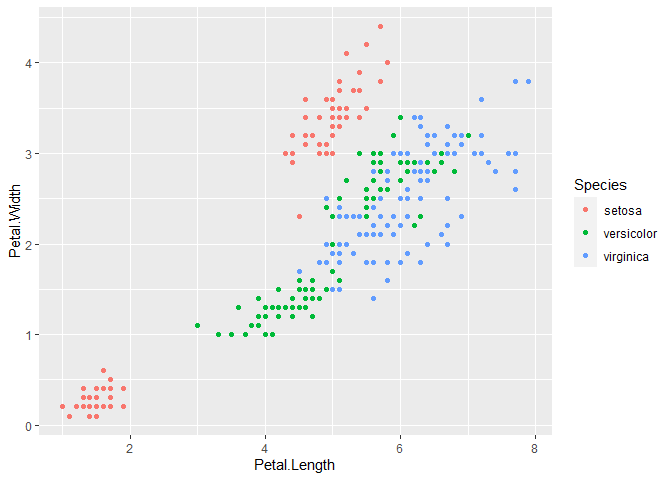
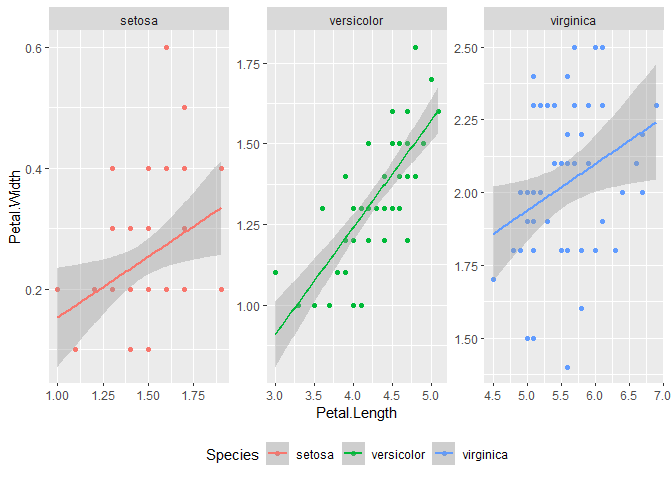
Tried some facets with trend lines.

diff --git a/iris-dataset-analysis.md b/iris-dataset-analysis.md
@@ -3,10 +3,49 @@ iris-dataset-analysis
 Adrian M
 2023-10-14
 
+# Introduction
+
+Edgar Anderson’s Iris Data
+
+This famous (Fisher’s or Anderson’s) iris data set gives the
+measurements in centimeters of the variables sepal length and width and
+petal length and width, respectively, for 50 flowers from each of 3
+species of iris. The species are Iris setosa, versicolor, and virginica.
+
+Setting up the environment
+
+?iris
+
 ``` r
 # install.packages("tidyverse")
 # install.packages("ggplot2")
-# library(tidyverse)
+library(tidyverse)
+```
+
+    ## Warning: package 'tidyverse' was built under R version 4.3.1
+
+    ## Warning: package 'tidyr' was built under R version 4.3.1
+
+    ## Warning: package 'purrr' was built under R version 4.3.1
+
+    ## Warning: package 'dplyr' was built under R version 4.3.1
+
+    ## Warning: package 'forcats' was built under R version 4.3.1
+
+    ## Warning: package 'lubridate' was built under R version 4.3.1
+
+    ## ── Attaching core tidyverse packages ──────────────────────── tidyverse 2.0.0 ──
+    ## ✔ dplyr     1.1.3     ✔ readr     2.1.4
+    ## ✔ forcats   1.0.0     ✔ stringr   1.5.0
+    ## ✔ ggplot2   3.4.4     ✔ tibble    3.2.1
+    ## ✔ lubridate 1.9.3     ✔ tidyr     1.3.0
+    ## ✔ purrr     1.0.2     
+    ## ── Conflicts ────────────────────────────────────────── tidyverse_conflicts() ──
+    ## ✖ dplyr::filter() masks stats::filter()
+    ## ✖ dplyr::lag()    masks stats::lag()
+    ## ℹ Use the conflicted package (<http://conflicted.r-lib.org/>) to force all conflicts to become errors
+
+``` r
 library(ggplot2)
 ```
 
@@ -30,11 +69,11 @@ head(df)
     ## 5          5.0         3.6          1.4         0.2  setosa
     ## 6          5.4         3.9          1.7         0.4  setosa
 
-Trying univariate analysis and visualize this using qplot
+Trying some univariate analysis and visualize this using `qplot`
 
 ?qplot
 
-Using qplot to show a plot. Check the number of records per Species
+Using `qplot` to show a plot. Check the number of records per Species
 
 ``` r
 qplot(Species, 
@@ -49,10 +88,11 @@ qplot(Species,
 
 ![](iris-dataset-analysis_files/figure-gfm/unnamed-chunk-4-1.png)<!-- -->
 
-qplot automatically decides which plot to use based on supplied
-variables. 50 records per species.
+`qplot` automatically decides which plot to use based on supplied
+variables. 50 records per species as the data set introduction
+described.
 
-Trying qplot if it will show a scatterplot
+Trying `qplot` to show a scatterplot
 
 ``` r
 qplot(Petal.Length, 
@@ -62,7 +102,7 @@ qplot(Petal.Length,
 
 ![](iris-dataset-analysis_files/figure-gfm/unnamed-chunk-5-1.png)<!-- -->
 
-Add some colors by Species
+Adding some colors by Species
 
 ``` r
 qplot(Petal.Length, 
@@ -73,8 +113,9 @@ qplot(Petal.Length,
 
 ![](iris-dataset-analysis_files/figure-gfm/unnamed-chunk-6-1.png)<!-- -->
 
-Looks good but documentation says qplot is deprecated (no longer useful
-or better options exist) So, going to try and explore ggplot instead
+Looks good but documentation says `qplot` is deprecated (no longer
+useful or better options exist) In this case, I’m going to try and
+explore ggplot instead
 
 ?ggplot
 
@@ -86,9 +127,9 @@ ggplot(data = df,
 ```
 
 ![](iris-dataset-analysis_files/figure-gfm/unnamed-chunk-7-1.png)<!-- -->
-
-It’s blank. Of course since the `aes()` or aesthetic is only present
-here. I need to specify which type of plot to use (unlike qplot?)
+It’s blank. Of course since the only the `aes()` or the aesthetic is
+present here. I need to add more layers and specify which type of plot
+to use.
 
 ``` r
 ggplot(data = df, 
@@ -99,10 +140,14 @@ ggplot(data = df,
 
 ![](iris-dataset-analysis_files/figure-gfm/unnamed-chunk-8-1.png)<!-- -->
 
-Pros: more control over what you want to display versus qplot which does
-it automatically. Also, it says we can drop the specifications for the
-`data=` and `mapping=` arguments as long as we supply the correct
-arguments in the correct order. Nice. Add some colors
+`ggplot` allows for better control over what you want to display versus
+`qplot`.
+
+Also, it says we can drop the specifications for the `data=` and
+`mapping=` arguments as long as we supply the correct arguments in the
+correct order. Nice.
+
+Adding some colors
 
 ``` r
 ggplot(df,
@@ -113,8 +158,8 @@ ggplot(df,
 ```
 
 ![](iris-dataset-analysis_files/figure-gfm/unnamed-chunk-9-1.png)<!-- -->
-
-Add a trend line since it’s a scatterplot, to see the correlation better
+Adding a trend line since it’s a scatterplot, to see the correlation
+better.
 
 ``` r
 ggplot(df, 
@@ -128,17 +173,17 @@ ggplot(df,
     ## `geom_smooth()` using formula = 'y ~ x'
 
 ![](iris-dataset-analysis_files/figure-gfm/unnamed-chunk-10-1.png)<!-- -->
-
 All three species appears to have a positive correlation for Petal
 length & width shown by the trend line going upwards.
 
-I can drop the `x=` and `y=` specifications too for the `aes()` method.
+I can drop the `x=` and `y=` specifications too for the `aes()` method!
 
 ?aes()
 
 Also, ggplot uses layers so it can overlap multiple plots, from one
-dataset or more(!). I’ll to move the `aes()` inside the `geom_point`
-layer and try some parameters
+dataset, or more! I’ll move the `aes()` inside the `geom_point` layer
+which indicates that the data points will onlky be affected by the
+parameters we add in this `geom_point` layer and try some parameters
 
 ``` r
 ggplot(df) +
@@ -152,7 +197,6 @@ ggplot(df) +
 ```
 
 ![](iris-dataset-analysis_files/figure-gfm/unnamed-chunk-11-1.png)<!-- -->
-
 Using facet to separate
 
 ?facet_wrap
@@ -168,8 +212,31 @@ ggplot(df,
 ```
 
 ![](iris-dataset-analysis_files/figure-gfm/unnamed-chunk-12-1.png)<!-- -->
+There is so much unused space in the plots so I will try to scale each
+plot to fit the datapoints inside the plot and see what it looks like.
 
-Try to overlap two layers, petal and sepal
+``` r
+ggplot(df,
+       aes(Petal.Length,
+           Petal.Width,
+           col = Species)) +
+  geom_point() +
+  facet_wrap(Species ~ .,
+             scales = "free") + #this will scale down the x and y values to fit the datapoints in the plot
+  geom_smooth(method = lm) +
+  theme(legend.position = "bottom")
+```
+
+    ## `geom_smooth()` using formula = 'y ~ x'
+
+![](iris-dataset-analysis_files/figure-gfm/unnamed-chunk-13-1.png)<!-- -->
+It looks zoomed-in and clearer but I think the trade-off here is that,
+it will be harder to make quick comparisons since you will constantly
+need to look at the values in the x and y axes to interpret the data
+correctly.
+
+Next, I will try to overlap two layers, length and width measurements of
+petal and sepal
 
 ``` r
 ggplot(df) +
@@ -178,32 +245,52 @@ ggplot(df) +
              col = Species)) +
   geom_point(aes(Sepal.Length,
              Sepal.Width,
-             col = Species))
+             col = Species)) +
+#I need to change the x and y labels since we are dealing now with 2 different variables (Petal and Sepal)
+  labs(title = "Petal and Sepal",
+       subtitle = "Length and Width",
+       x = "Length", 
+       y = "Width")
 ```
 
-![](iris-dataset-analysis_files/figure-gfm/unnamed-chunk-13-1.png)<!-- -->
-
+![](iris-dataset-analysis_files/figure-gfm/unnamed-chunk-14-1.png)<!-- -->
 I can’t distinguish which is which. Maybe try to change the color per
 variable
 
 colors()
 
 ``` r
-ggplot(df) +
+ggplot(df, aes(col = Species)) +
   geom_point(aes(Petal.Length,
                  Petal.Width,
-                 shape = Species), 
-             col = "seagreen") +        #put the col= argument outside aes()
+                 shape = "Petal"),
+             alpha = 0.5) +
+  geom_smooth(aes(Petal.Length,
+                  Petal.Width), 
+              method = lm,
+              alpha = 0.5) +
   geom_point(aes(Sepal.Length,
                  Sepal.Width,
-                 shape = Species),
-             col = "royalblue")
+                 shape = "Sepal"),
+             alpha = 0.5) +
+  geom_smooth(aes(Sepal.Length,
+                  Sepal.Width),
+              method = lm,
+              alpha = 0.5) +
+  labs(title = "Petal and Sepal",
+       subtitle = "Length and Width",
+       x = "Length", 
+       y = "Width")
 ```
 
-![](iris-dataset-analysis_files/figure-gfm/unnamed-chunk-14-1.png)<!-- -->
+    ## `geom_smooth()` using formula = 'y ~ x'
+    ## `geom_smooth()` using formula = 'y ~ x'
 
-This look too busy and unusable but I can move forward and explore
-ggplot further.
+![](iris-dataset-analysis_files/figure-gfm/unnamed-chunk-15-1.png)<!-- -->
+This looks a little too busy but it appears that there is a positive
+correlation.
+
+I can move forward and explore ggplot further.
 
 Try to see some relation between the measurements (petal, sepal, length
 and width) but this time, show the plots side by side using cowplot
@@ -217,30 +304,48 @@ library(cowplot)
 
     ## Warning: package 'cowplot' was built under R version 4.3.1
 
+    ## 
+    ## Attaching package: 'cowplot'
+
+    ## The following object is masked from 'package:lubridate':
+    ## 
+    ##     stamp
+
 ``` r
 gg1 <- ggplot(df, aes(col = Species)) +
   geom_point(aes(Petal.Length,
                  Petal.Width), 
              size = 2, 
              alpha = 0.7,
-             show.legend = FALSE)
+             show.legend = FALSE) +
+  geom_smooth(aes(Petal.Length,
+                  Petal.Width),
+              method = lm)
 
 gg2 <- ggplot(df, aes(col = Species)) +
   geom_point(aes(Sepal.Length,
                  Sepal.Width), 
              size = 2, 
              alpha = 0.7) +
+  geom_smooth(aes(Sepal.Length,
+                  Sepal.Width),
+              method = lm) +
   theme(legend.position = "top",
         legend.title = element_blank())
 
 plot_grid(gg1, gg2, ncol = 2) #from cowplot
 ```
 
-![](iris-dataset-analysis_files/figure-gfm/unnamed-chunk-16-1.png)<!-- -->
+    ## `geom_smooth()` using formula = 'y ~ x'
+    ## `geom_smooth()` using formula = 'y ~ x'
 
-Looks crowded but I can see here that Petal Length & Width have positive
-correlation while Sepal length & width have positive correlation only
-with setosa
+![](iris-dataset-analysis_files/figure-gfm/unnamed-chunk-17-1.png)<!-- -->
+Looks better and clearer compared to overlapped data.
+
+I can see here that Petal Length & Width have strong positive
+correlation while Sepal length & width have strong positive correlation
+only with setosa and somewhat positive correlation for the versicolor
+and virginica.
 
 OK I’m going to try histogram plots. Some basic plots to see the
 distribution of all the measurements
@@ -253,7 +358,9 @@ create_histogram <- function(data, column_name, num_bins = 25) #create the funct
                  bins = num_bins,
                  alpha = 0.7) + #flexibility in number of histogram bins
   theme_minimal() #makes all plots consistent
+```
 
+``` r
 #Running the function, supplying the appropriate parameters, then storing each plot to a corresponding variable
 hist_petal_length <- create_histogram(df, "Petal.Length")
 ```
@@ -279,7 +386,7 @@ plot_grid(hist_petal_length,
           nrow = 2)
 ```
 
-![](iris-dataset-analysis_files/figure-gfm/unnamed-chunk-17-1.png)<!-- -->
+![](iris-dataset-analysis_files/figure-gfm/unnamed-chunk-19-1.png)<!-- -->
 The petal length & width appears to have a gap in a certain section of
 the distribution. The group on the left could be the setosa, similar to
 the gaps on the previous scatterplots. The sepal length is spread across
@@ -307,7 +414,7 @@ ggplot(df) +
     ## Call `lifecycle::last_lifecycle_warnings()` to see where this warning was
     ## generated.
 
-![](iris-dataset-analysis_files/figure-gfm/unnamed-chunk-18-1.png)<!-- -->
+![](iris-dataset-analysis_files/figure-gfm/unnamed-chunk-20-1.png)<!-- -->
 Identifying the species by colors confirms that the gap is because of
 the iris specie setosa
 
@@ -340,7 +447,7 @@ plot_grid(gg_boxp_petalL,
           nrow = 2)
 ```
 
-![](iris-dataset-analysis_files/figure-gfm/unnamed-chunk-19-1.png)<!-- -->
+![](iris-dataset-analysis_files/figure-gfm/unnamed-chunk-21-1.png)<!-- -->
 It looks normally distributed but there are possible outliers. Taking at
 closer look at Sepal width
 
@@ -357,7 +464,7 @@ ggplot(df,
   coord_flip()
 ```
 
-![](iris-dataset-analysis_files/figure-gfm/unnamed-chunk-20-1.png)<!-- -->
+![](iris-dataset-analysis_files/figure-gfm/unnamed-chunk-22-1.png)<!-- -->
 Some data points are clearly outside lines extending outwards the box
 but I cannot conclude that these are erroneous data. Since I cannot
 gather more information about these “outlier” measurements for this
